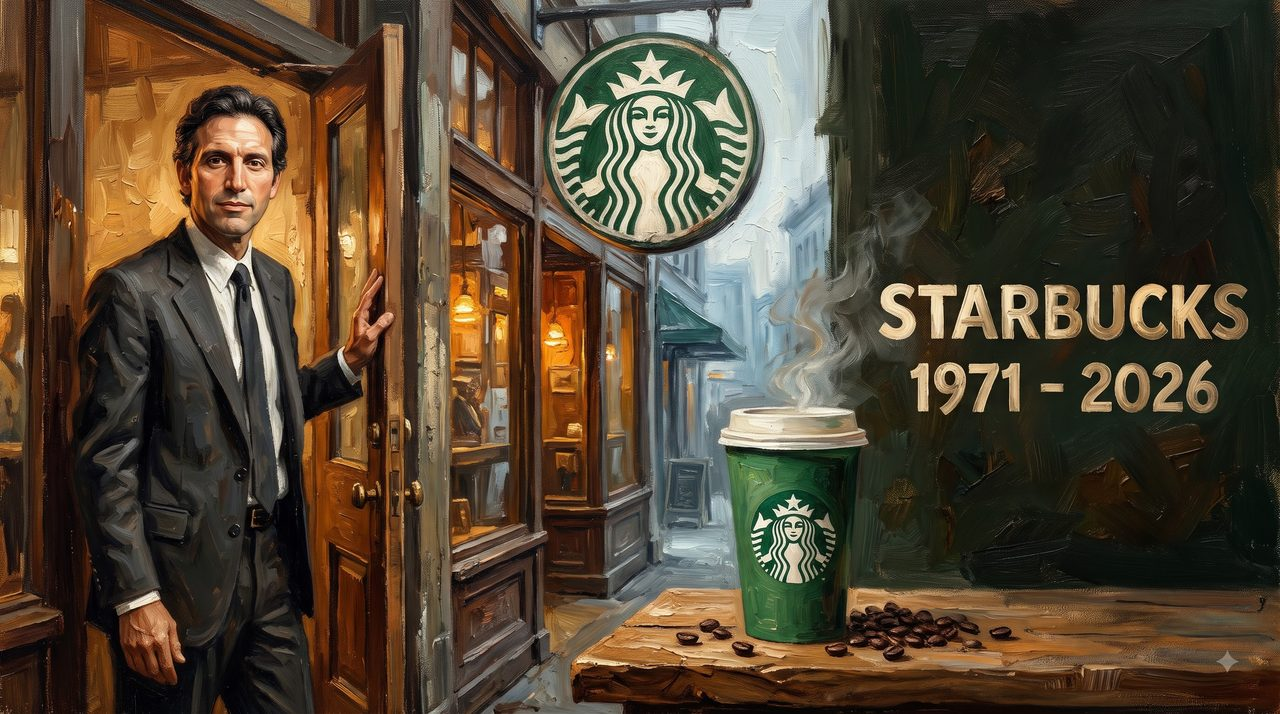
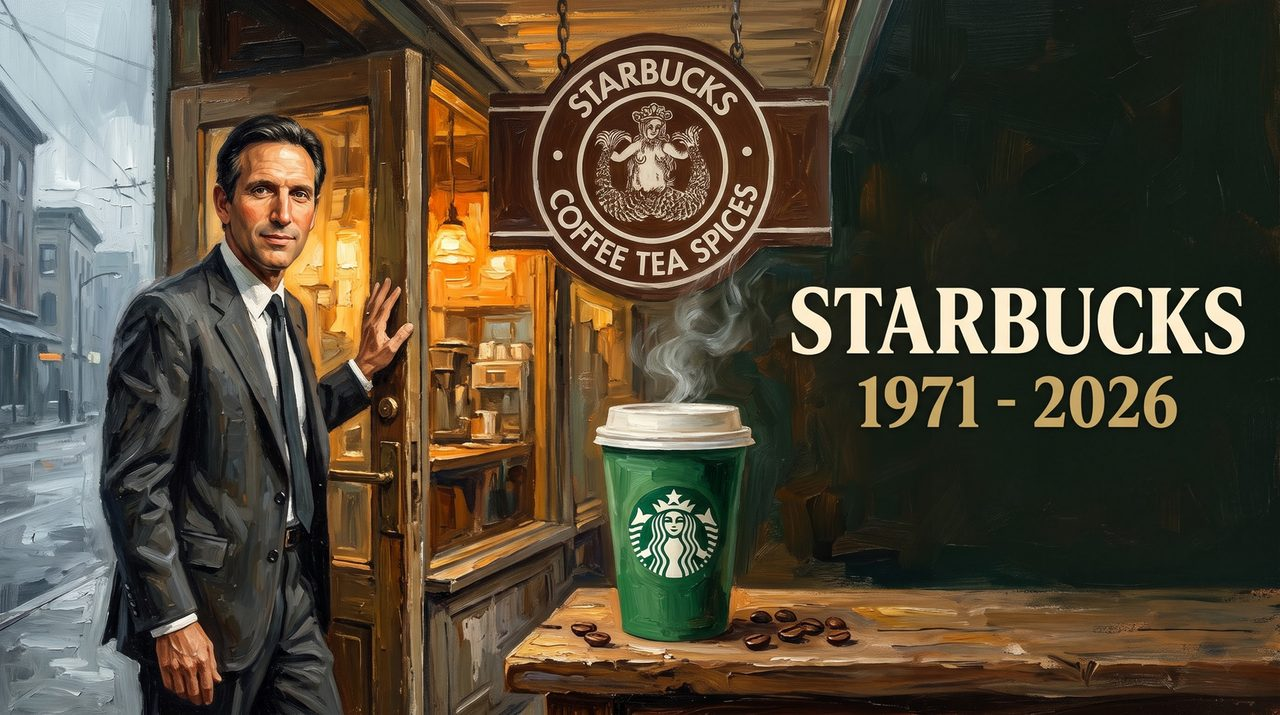
Starbucks article: add video embed, new thumbnail cover, 14 in-article images

diff --git a/_posts/2026-11-10-history-of-starbucks.md b/_posts/2026-11-10-history-of-starbucks.md
@@ -3,6 +3,7 @@ layout: post
 title: "The ENTIRE History of Starbucks: The Man Who Saw More Than Coffee"
 description: "How Starbucks began in 1971 as a tiny Seattle bean shop, and how Howard Schultz turned coffee into a place to stay, in 41,607 stores by 2026."
 date: 2026-11-10
+youtube_id: "UNO6gZvVHNY"
 categories: [Company-History, Founder-Stories]
 tags: [Starbucks, Howard-Schultz]
 cover_brand: "STARBUCKS"
@@ -10,6 +11,7 @@ cover_years: "1971 - 2026"
 cover_fate: "A place to stay"
 cover_class: "c-default"
 cover_thumb: /assets/images/starbucks/starbucks-thumbnail.jpg
+image: /assets/images/starbucks/starbucks-latte.jpg
 redirect_from:
   - "/stories/entire-history-of-starbucks/"
 ---
@@ -22,19 +24,29 @@ But the first Starbucks was not like that at all. In 1971, it was one small Seat
 
 So how did a little bean shop become a place loved around the world? This is the story of Starbucks, from the very beginning.
 
+<figure><img src="/assets/images/starbucks/starbucks-latte.jpg" alt="A cup of latte with leaf-shaped latte art, steam rising, and the green Starbucks siren logo glowing on the wall behind it"><figcaption>A warm cup, a familiar green logo. But Starbucks did not begin with lattes at all.</figcaption></figure>
+
 ## A Boy from Brooklyn
 
 Howard D. Schultz was born on July 19, 1953, in Brooklyn, New York, and grew up in a public housing building. His father, Fred, worked different jobs, and money was often tight.
 
 When Howard was seven, his father was injured while working as a delivery driver. The boy found him at home, hurt and unable to work, while the bills kept arriving. There was no help and no protection. Howard was too young to help, but he never forgot those days.
 
+<figure><img src="/assets/images/starbucks/starbucks-father.jpg" alt="Howard Schultz as a seven-year-old boy standing in a doorway, watching his injured father sit at a small table counting coins in their Brooklyn apartment"><figcaption>A father hurt, a table of coins, and a seven-year-old boy who could do nothing. Howard never forgot this room.</figcaption></figure>
+
 He loved sports, worked hard, and went to Northern Michigan University, the first in his family to graduate from college. Then, as a young salesman of kitchen equipment and coffee makers, he noticed something strange: one small Seattle customer kept ordering an unusual number of coffee makers. The company was called Starbucks.
+
+<figure><img src="/assets/images/starbucks/starbucks-graduation.jpg" alt="Young Howard Schultz in a graduation gown holding his diploma, standing with his proud parents and little brother on a green university lawn"><figcaption>The first in his family to graduate from college. A boy from Brooklyn was on his way.</figcaption></figure>
+
+<figure><img src="/assets/images/starbucks/starbucks-coffee-makers.jpg" alt="Boxes of new drip coffee makers stacked inside the small wooden Starbucks bean shop in Seattle, with sacks of coffee beans and the carved siren sign on the wall"><figcaption>One small Seattle customer kept ordering coffee makers, far more than a tiny bean shop should need. Howard had to know why.</figcaption></figure>
 
 ## Three Friends in Seattle
 
 Seattle, the city that would later give the world [Amazon](/stories/history-of-amazon/), was home to three friends who shared a simple love in 1971: good coffee.
 
 Gerald Baldwin, Gordon Bowker, and Zev Siegl loved coffee from dark-roasted beans, but it was hard to find. Each put in 1,350 dollars, and together they borrowed another 5,000 dollars. In March 1971, they opened the first Starbucks near Pike Place Market.
+
+<figure><img src="/assets/images/starbucks/starbucks-bean-shop.jpg" alt="Inside the first Starbucks store in 1971: wooden shelves of bean sacks, open bins of roasted coffee beans, and a customer buying a paper bag of beans at the counter"><figcaption>The first Starbucks sold beans, tea and spices. No lattes, no chairs, not even a place to sit.</figcaption></figure>
 
 The friends had learned from Alfred Peet, who believed Americans deserved better coffee. They named the shop Starbucks, inspired by the novel *Moby-Dick*.
 
@@ -44,7 +56,11 @@ It was also the year a small Oregon shoe company became [Nike](/stories/history-
 
 Howard first visited Starbucks in 1981. The coffee, and the founders' passion, stayed with him. In 1982, he left his secure job and joined the small company.
 
+<figure><img src="/assets/images/starbucks/starbucks-first-taste.jpg" alt="Howard Schultz tasting a small cup of dark coffee at the wooden counter of the Seattle bean shop in 1981, while one of the founders watches him across the counter"><figcaption>In 1981, Howard tasted the coffee and listened to the men who cared so deeply about it. He wanted to be part of it.</figcaption></figure>
+
 In 1983, Starbucks sent him to Italy. In a Milan coffee bar, he watched a barista greet regular customers by name. People stopped, talked, and enjoyed a few quiet minutes. In Seattle, Starbucks sold beans. In Milan, people gathered around coffee.
+
+<figure><img src="/assets/images/starbucks/starbucks-milan.jpg" alt="Howard Schultz standing in a warm Milan coffee bar in 1983, watching regular customers talk and enjoy their coffee together"><figcaption>Milan, 1983. People did not just buy coffee here. They stopped, they talked, they stayed a little longer.</figcaption></figure>
 
 Howard began to dream of a warm place between home and work, a "third place" where people could meet, or simply sit in peace. The founders were not convinced. In 1984, he tested espresso drinks in one store, and customers liked them. But the founders would not change. So in 1985, he left to build his own coffeehouse.
 
@@ -54,9 +70,13 @@ His new company was called Il Giornale. By his own account, Howard approached 24
 
 Then, in 1987, the founders decided to focus on Peet's Coffee, which they had bought, and sell Starbucks: the name, the roasting business, and six stores. Howard needed 3.8 million dollars he did not have. Another investor threatened to take the deal, so he asked Bill Gates Sr., a respected Seattle lawyer, for help. Gates Sr. helped him protect it, and in August 1987 Howard bought Starbucks.
 
+<figure><img src="/assets/images/starbucks/starbucks-vision.jpg" alt="Howard Schultz standing on a Seattle street, looking at a Starbucks coffeehouse glowing with golden light and filled with people talking together, like a vision in warm haze"><figcaption>He could already see the coffeehouse he wanted to build. He just had to survive 217 no's to build it.</figcaption></figure>
+
 ## The Promise Behind the Green Apron
 
 Howard wanted his workers to have the support his father never had. In 1988, Starbucks offered health insurance to full-time workers and eligible part-time workers. In 1991, Bean Stock gave eligible employees a chance to own shares. The people who built Starbucks, he believed, should share in its success.
+
+<figure><img src="/assets/images/starbucks/starbucks-green-apron.jpg" alt="A smiling barista in a green Starbucks apron handing a cup to a customer, while Howard Schultz teaches a young barista at the espresso machine behind the counter"><figcaption>Green aprons, trained baristas, and a quiet promise: the people building Starbucks would share in its success.</figcaption></figure>
 
 In 1992, Starbucks sold shares to the public, with 165 stores.
 
@@ -64,7 +84,11 @@ In 1992, Starbucks sold shares to the public, with 165 stores.
 
 In Southern California, customers asked for cold, blended coffee drinks. Employees experimented with ice, milk, and coffee, and the company developed the Frappuccino. Howard was not excited. The sweet, icy drink was far from his beloved espresso. But customers wanted it, and in 1995 it became a hit across the United States.
 
+<figure><img src="/assets/images/starbucks/starbucks-frappuccino.jpg" alt="Howard Schultz leaning on a Starbucks counter, tasting a tall icy Frappuccino with a serious, doubtful face, while customers enjoy their drinks around him"><figcaption>Howard was not sure about the cold, sweet drink. The customers were. The Frappuccino became a hit.</figcaption></figure>
+
 Starbucks was also learning to travel: Japan in 1996, its first store outside North America, then the United Kingdom in 1998 and China in 1999. In 2000, Howard stepped away as CEO, staying on as chairman.
+
+<figure><img src="/assets/images/starbucks/starbucks-global.jpg" alt="A rainy evening street corner in London with a glowing Starbucks store, a red double-decker bus and black taxis, and Starbucks signs shining further down the street toward a Chinatown gate"><figcaption>Japan in 1996, the United Kingdom in 1998, China in 1999. The little Seattle coffeehouse had learned to travel the world.</figcaption></figure>
 
 ## The Afternoon Starbucks Closed
 
@@ -78,9 +102,13 @@ Howard was willing to lose an afternoon of sales to bring back quality. But hund
 
 In 2012, Starbucks began writing customers' names on their cups. Hearing your own name still felt personal, even when the spelling was wrong. Mobile ordering changed things again: some still came to sit and talk, others paid on their phones and hurried on.
 
-In 2017, Kevin Johnson became CEO, and a year later Howard left as chairman. In 2020, COVID-19 emptied the tables where friends once gathered. In 2021, workers at a Buffalo store voted to form a union, asking what Howard's old promise to care for workers really meant.
+In 2017, Kevin Johnson became CEO, and a year later Howard left as chairman.
+
+<figure><img src="/assets/images/starbucks/starbucks-handover.jpg" alt="Howard Schultz shaking hands with Kevin Johnson across a boardroom table in 2017, with the green Starbucks siren logo on the wooden wall behind them"><figcaption>In 2017, Howard handed Starbucks to a new leader. The company had to learn to walk without him.</figcaption></figure> In 2020, COVID-19 emptied the tables where friends once gathered. In 2021, workers at a Buffalo store voted to form a union, asking what Howard's old promise to care for workers really meant.
 
 Howard returned in 2022. Laxman Narasimhan followed in 2023, and Brian Niccol in 2024. His plan, "Back to Starbucks," promises better coffee, more personal service, and a reason to stay. By 2026, Starbucks had 41,607 stores.
+
+<figure><img src="/assets/images/starbucks/starbucks-globe.jpg" alt="A vintage globe covered with small green Starbucks flag pins across the Americas, Europe and Asia, beside an open ledger with the number 41,607 written in it"><figcaption>41,607 stores around the world. All of it began with one small bean shop in Seattle.</figcaption></figure>
 
 <div class="lessons" markdown="1">
 ## What This Story Teaches Us
@@ -97,5 +125,7 @@ To understand what Starbucks really meant to Howard, we go back to that winter d
 Years later, Howard made a quiet promise: his workers would get the care his father never had. It was not always easy to keep, and the dream was never truly finished. Maybe it never will be.
 
 But the idea was simple from the start. We can buy coffee almost anywhere. Yet we return to the places that make us feel welcome. A friendly face. A familiar table. Someone who knows our name.
+
+<figure><img src="/assets/images/starbucks/starbucks-cafe.jpg" alt="Inside a warm Starbucks cafe in soft morning light: friends talking at wooden tables, a steaming cup in the foreground, and the green siren logo in the bright window"><figcaption>A warm light, a familiar table, and people who stay a little longer. That was the dream from the very beginning.</figcaption></figure>
 
 And now, my friend, tell me: what makes you return to your favorite coffee shop? Is it the coffee, or the way the place makes you feel?
